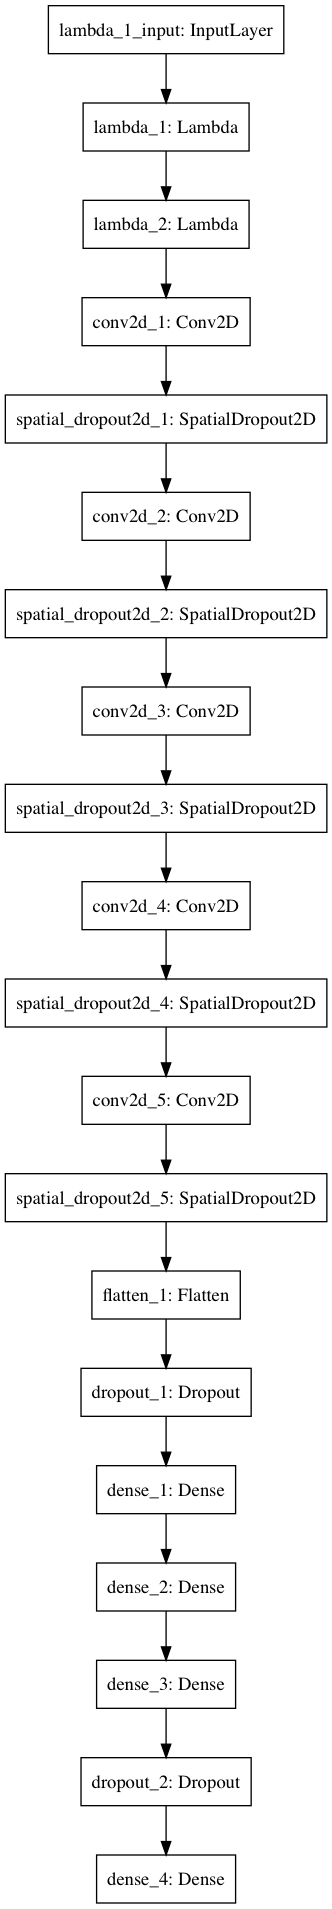
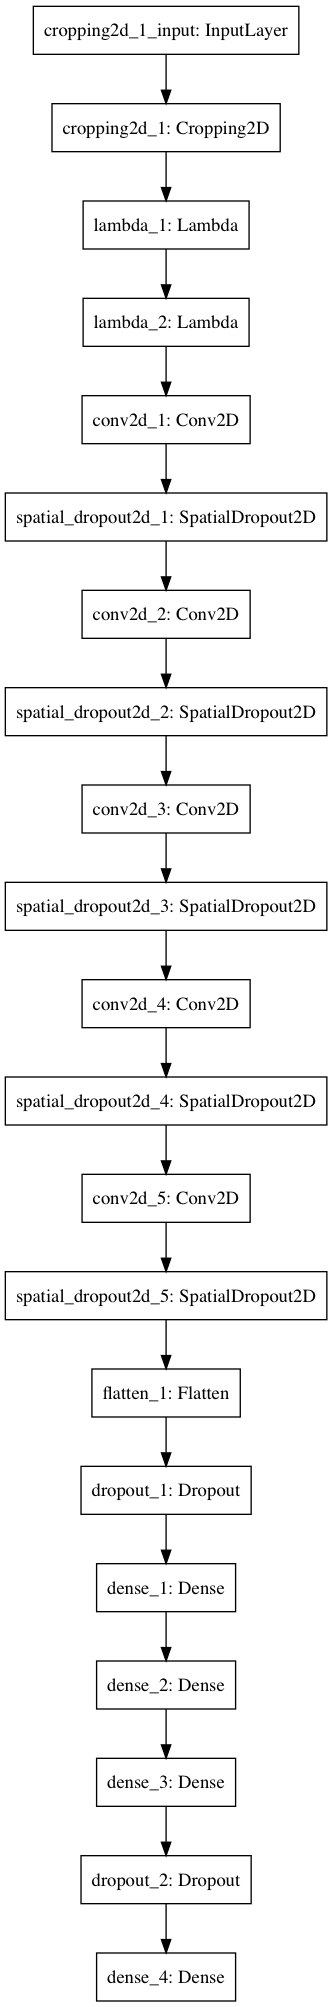
Added parameters

Changed region(s): [[0.0, 0.0, 0.994, 1.0], [0.0, 0.2163, 0.0301, 0.2782]]

diff --git a/clone.py b/clone.py
@@ -5,23 +5,34 @@ import matplotlib.pyplot as plt
 import sklearn
 import keras
 
+BATCH_SIZE = 64
+EPOCHS=1
 images_path = './data/IMG/'
 steering_correction = 0.1
 samples = []
+rows_dropped = 0
 with open('./data/driving_log.csv') as csvfile:
     reader = csv.reader(csvfile)
     next(reader) # Skip the header
     for row in reader:
-        samples.append(row)
+        if (float(row[3]) < .05 and np.random.randint(10) > 2 ):
+            samples.append(row)
+            rows_dropped += 1
+print("Dropped %s rows with low steering"%(rows_dropped))
 
+
+# # Randomly decrease data with low steering angle
+# index = samples[abs(samples[3])<.05].index.tolist()
+# rows = [i for i in index if np.random.randint(10) < 8]
+# samples = samples.drop(samples.index[rows])
+# print("Dropped %s rows with low steering"%(len(rows)))
 
 
 from sklearn.model_selection import train_test_split
-
 train_samples, validation_samples = train_test_split(samples, test_size=0.2)
 
 
-def generator(samples, batch_size=64):
+def generator(samples, batch_size=BATCH_SIZE):
     num_samples = len(samples)
     while 1:
         sklearn.utils.shuffle(samples)
@@ -51,8 +62,8 @@ from keras.layers.pooling import MaxPooling2D
 from keras.optimizers import Adam
 from keras.utils import plot_model
 
-train_generator = generator(train_samples, batch_size=32)
-validation_generator = generator(validation_samples, batch_size=32)
+train_generator = generator(train_samples, batch_size=BATCH_SIZE)
+validation_generator = generator(validation_samples, batch_size=BATCH_SIZE)
 
 
 def resize_images(img):
@@ -63,8 +74,18 @@ def resize_images(img):
     import tensorflow as tf
     return tf.image.resize_images(img, (66, 200))
 
+
+
+#
+# def preprocess_img(img):
+#     """Returns croppped image
+#     """
+#     return img[60:135, : ]
+
+
 model = Sequential()
-model.add(Lambda(resize_images, input_shape=(160,320,3)))
+model.add(Cropping2D(cropping=((70,25), (0, 0)), input_shape=(160,320,3)))
+model.add(Lambda(resize_images))
 model.add(Lambda(lambda x: x/255.-0.5))
 model.add(Convolution2D(24, (5, 5), padding="same", strides=(2,2), activation="elu"))
 model.add(SpatialDropout2D(0.2))
@@ -96,7 +117,7 @@ history_object = model.fit_generator(train_generator, steps_per_epoch =
     len(train_samples), validation_data =
     validation_generator,
     validation_steps = len(validation_samples),
-    epochs=5, verbose=1)
+    epochs=EPOCHS, verbose=1)
 
 model.save('model.h5')
 
